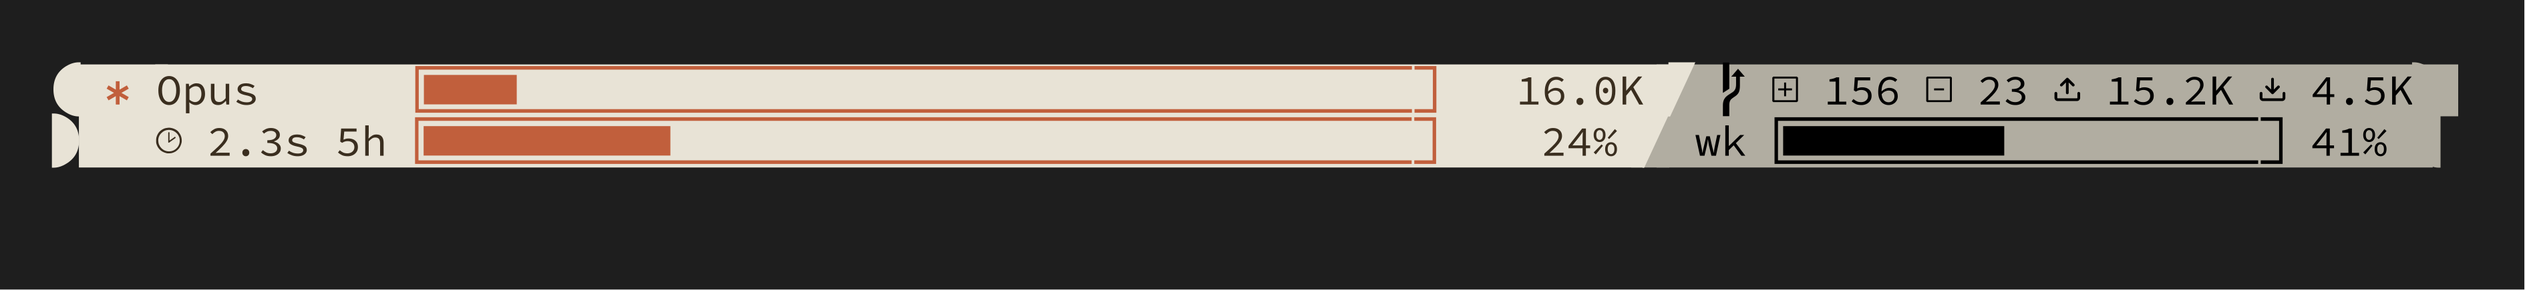
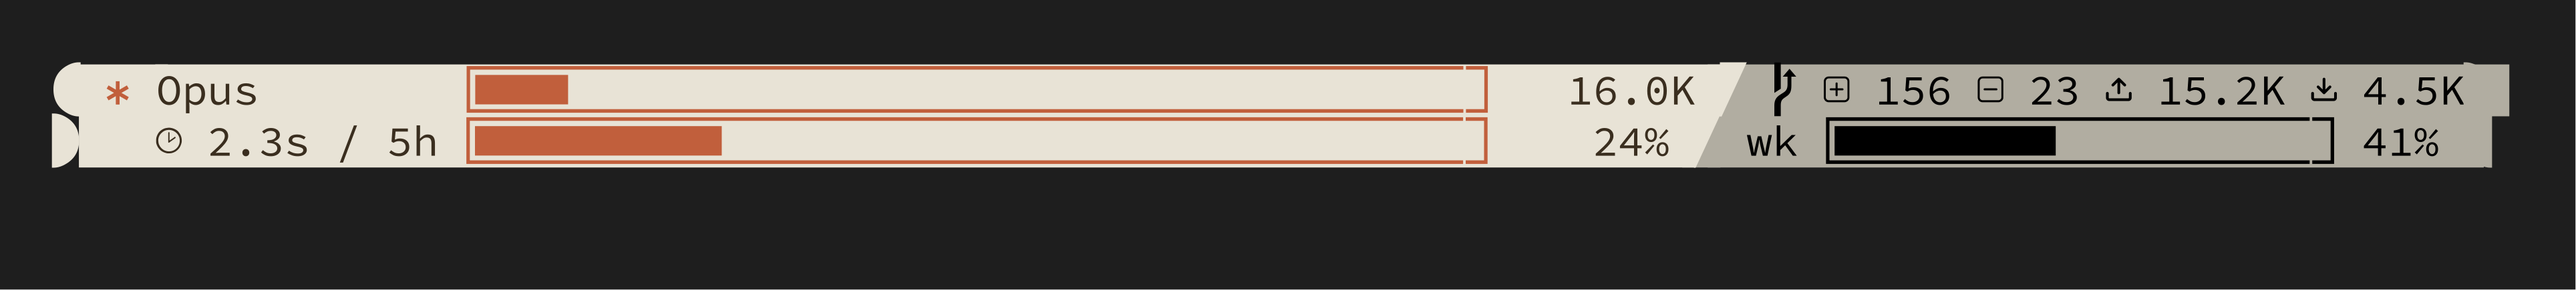
Separate thinking time from the 5h label with "/"
With short model names the thinking time ("8m 1s") ran straight into
the "5h" label, and both read as durations. Line 2 now draws
"<time> / 5h", with any alignment padding placed before the "/" so
"/ 5h" stays attached to its bar. The prefix grows by 2 columns, so
bar_col and time_pad use 12 + time_len and 11 + time_len; bar starts
and the chevron diagonal stay aligned (checked across model names
from "Opus" to "Claude Opus 5.5 (1M context)" and times from 2.3s to
62m 5s).

Regenerate the README screenshot and list the screenshot recipe's
dependencies in the Justfile: freeze renders no text without
rsvg-convert.

diff --git a/CLAUDE.md b/CLAUDE.md
@@ -41,12 +41,12 @@ Claude-brand adjacent. Dark palette (default, below); the light palette in `src/
 - **No heap allocation in renderer** — all output built in a fixed stack buffer.
 - **Compile-time color parsing** — hex color codes (e.g., `"#c15f3c"`) validated and converted to ANSI sequences via `comptime`.
 - **Overflow-safe** — buffer writes silently drop when full (no crashes or truncation mid-character).
-- **Cross-line alignment is runtime-computed, and symmetric.** When line 2 is active, line 1's context bar starts at column `5 + model_len` and line 2's 5h bar starts at `9 + time_len + time_pad`. We align them by targeting a common `bar_col = max(5 + model_len, 10 + time_len)` and padding *whichever side is short*: `line1_left_pad = bar_col − (5 + model_len)` (extra spaces emitted after the model name) and `time_pad = bar_col − 9 − time_len` (spaces between the thinking time and the `5h` label). The `10 + time_len` term encodes a **floor of 1** on `time_pad` — a legible gap between the thinking time and `5h`. This floor is why the padding must be two-sided: when the model name is **long**, `line1_left_pad` is 0 and `time_pad` absorbs the difference (this reduces to the historical `time_pad = model_len − time_len − 4`); when the model name is **short**, line 2's prefix is intrinsically wider than line 1's and `time_pad` can't go below 1, so line 1 is padded rightward instead. A one-sided formula (`time_pad = model_len − time_len − 4` clamped to ≥ 1) silently mis-aligns for short model names — that was the bug. The `5 + model_len` / `9 + time_len` column math assumes the 2 leading NBSPs on line 2 contribute 0 visible columns in Claude Code's rendered statusline (see NBSP gotcha below — they're structural, not indent). **Do not "fix" the NBSP term by codepoint-counting** — a Python-side ANSI stripper that tallies codepoints will reliably mislead you into treating the NBSPs as 2 cols and leave the real terminal 2 cols off. Aligning the bars this way is equivalent to satisfying the middle-chevron diagonal invariant below: both reduce to the same padding equation, so bar alignment and chevron chaining hold together automatically.
+- **Cross-line alignment is runtime-computed, and symmetric.** When line 2 is active, line 1's context bar starts at column `5 + model_len` and line 2's 5h bar starts at `11 + time_len + time_pad` (the 11 includes the `/ ` separator before `5h`). We align them by targeting a common `bar_col = max(5 + model_len, 12 + time_len)` and padding *whichever side is short*: `line1_left_pad = bar_col − (5 + model_len)` (extra spaces emitted after the model name) and `time_pad = bar_col − 11 − time_len` (spaces between the thinking time and the `5h` label). The `12 + time_len` term encodes a **floor of 1** on `time_pad` — a legible gap between the thinking time and the `/` separator. This floor is why the padding must be two-sided: when the model name is **long**, `line1_left_pad` is 0 and `time_pad` absorbs the difference (this reduces to `time_pad = model_len − time_len − 6`); when the model name is **short**, line 2's prefix is intrinsically wider than line 1's and `time_pad` can't go below 1, so line 1 is padded rightward instead. A one-sided formula (`time_pad = model_len − time_len − 4` clamped to ≥ 1) silently mis-aligns for short model names — that was the bug. The `5 + model_len` / `11 + time_len` column math assumes the 2 leading NBSPs on line 2 contribute 0 visible columns in Claude Code's rendered statusline (see NBSP gotcha below — they're structural, not indent). **Do not "fix" the NBSP term by codepoint-counting** — a Python-side ANSI stripper that tallies codepoints will reliably mislead you into treating the NBSPs as 2 cols and leave the real terminal 2 cols off. Aligning the bars this way is equivalent to satisfying the middle-chevron diagonal invariant below: both reduce to the same padding equation, so bar alignment and chevron chaining hold together automatically.
 - **Right-pill caps are dynamically aligned.** When both rows render (`rate_limits` present), `status_line` pre-computes each row's post-middle-chevron visible width from the `Message` — line 1 = `14 + L_added + L_removed + L_input + L_output` (each `L_x` = `tokens_len(x)`); line 2 = `27 + L_sd_pct` — and pads both rows up to a common target so the right pill caps line up. **The target accounts for the 1-col leftward offset of line 2's middle chevron** (see the diagonal invariant below): with `T = max(line1_w + 1, line2_w)`, we emit `T − line1_w − 1` trailing spaces before line 1's `\u{e0b4}` and `T − line2_w` before line 2's inverted `\u{e0b6}`. The `+1` term reflects that line 2's content needs to span one extra column past the chevron to finish at the same terminal column as line 1. Line 2's baseline emits `"% "` (not `"%"`) to guarantee ≥1 col between the rate percent and the pill; dynamic padding is additional on top.
 - **Fixed-width post-bar fields chain the two middle chevrons into one continuous diagonal.** The middle separator `\u{e0bc}` is an *upper-left triangle* — its diagonal edge runs from the top-right corner of its cell to the bottom-left. For the diagonal on line 1 to continue seamlessly into the diagonal on line 2, line 2's chevron must sit exactly **one column to the left** of line 1's chevron (so line 1's bottom-of-diagonal and line 2's top-of-diagonal share a column). Post-bar widths therefore must satisfy `line1 = line2 + 1`. Both rows emit `" "` leading + trailing space around the numeric block, so with the `%` glyph only on line 2 we get `1 + N + 1 = 1 + M + 1 + 1 + 1` → `N = M + 2`. We use `N = 7` (token value via `buf.tokens_padded(_, 7)`) and `M = 5` (percent value via `buf.tokens_padded(_, 5)` followed by `"% "`). The `N = 7` is sized to the widest output of `format_tokens_into` for realistic values: `{d:.1}K` produces up to `1000.0K` / `1200.0K` (7 chars) near the upper end of a 1M-token context window; every other branch produces ≤ 5 chars. If the context window ever exceeds ~1.2M tokens, recheck the worst-case token-string width and bump both `N` and `M` in lockstep (`M = N − 2`). Do not "fix" the apparent off-by-one between `N` and `M`; the offset is load-bearing.
 
 ### Gotchas (undocumented behavior discovered empirically)
 
-- **Claude Code strips leading `0x20` ASCII spaces on lines 2+** of multi-line statuslines, but `U+00A0` NBSPs survive the stripper and keep the line from being swallowed. Counter-intuitively the NBSPs are **required but produce zero visible columns** in the rendered statusline: drop them and Claude Code eats the entire line-2 prefix; keep them and line 2 renders — but the visible column count is as if they weren't there. You can verify this by noting that the line-2 bar-start column (`9 + time_len + time_pad`, see the alignment constraint above) balances against line 1's `5 + model_len` only when the 2 NBSPs contribute 0 cols, not 2. Treat them as a structural marker for Claude Code's line handler, not as indent. If you want real leading indent, use an `ESC[NC` cursor-forward escape.
+- **Claude Code strips leading `0x20` ASCII spaces on lines 2+** of multi-line statuslines, but `U+00A0` NBSPs survive the stripper and keep the line from being swallowed. Counter-intuitively the NBSPs are **required but produce zero visible columns** in the rendered statusline: drop them and Claude Code eats the entire line-2 prefix; keep them and line 2 renders — but the visible column count is as if they weren't there. You can verify this by noting that the line-2 bar-start column (`11 + time_len + time_pad` (the 11 includes the `/ ` separator before `5h`), see the alignment constraint above) balances against line 1's `5 + model_len` only when the 2 NBSPs contribute 0 cols, not 2. Treat them as a structural marker for Claude Code's line handler, not as indent. If you want real leading indent, use an `ESC[NC` cursor-forward escape.
 - **Powerline/box-drawing glyphs (U+E0A0–U+E0BF) bypass Ghostty's `minimum-contrast` remap** — they're rendered via Ghostty's own shape pipeline, not the font. The chevron between pills can have intrinsically low fg/bg contrast without being force-adjusted. All other glyphs (text, Nerd Font progress cells `U+EE00`–`U+EE05`, Codicon diff icons, etc.) *are* subject to the remap — keep any fg/bg pair above 3:1 to prevent surprise recoloring.
 - **Concave pill shape trick.** Line 2's inverted flourishes are drawn with `ESC[7m` / `ESC[27m` (ANSI reverse-video) bracketing the Powerline half-circle glyphs. Inverse swaps the intended fg/bg at render time, letting the terminal's default background paint the "scoop" without hardcoding a dark color — the scoop auto-matches any Ghostty theme.
